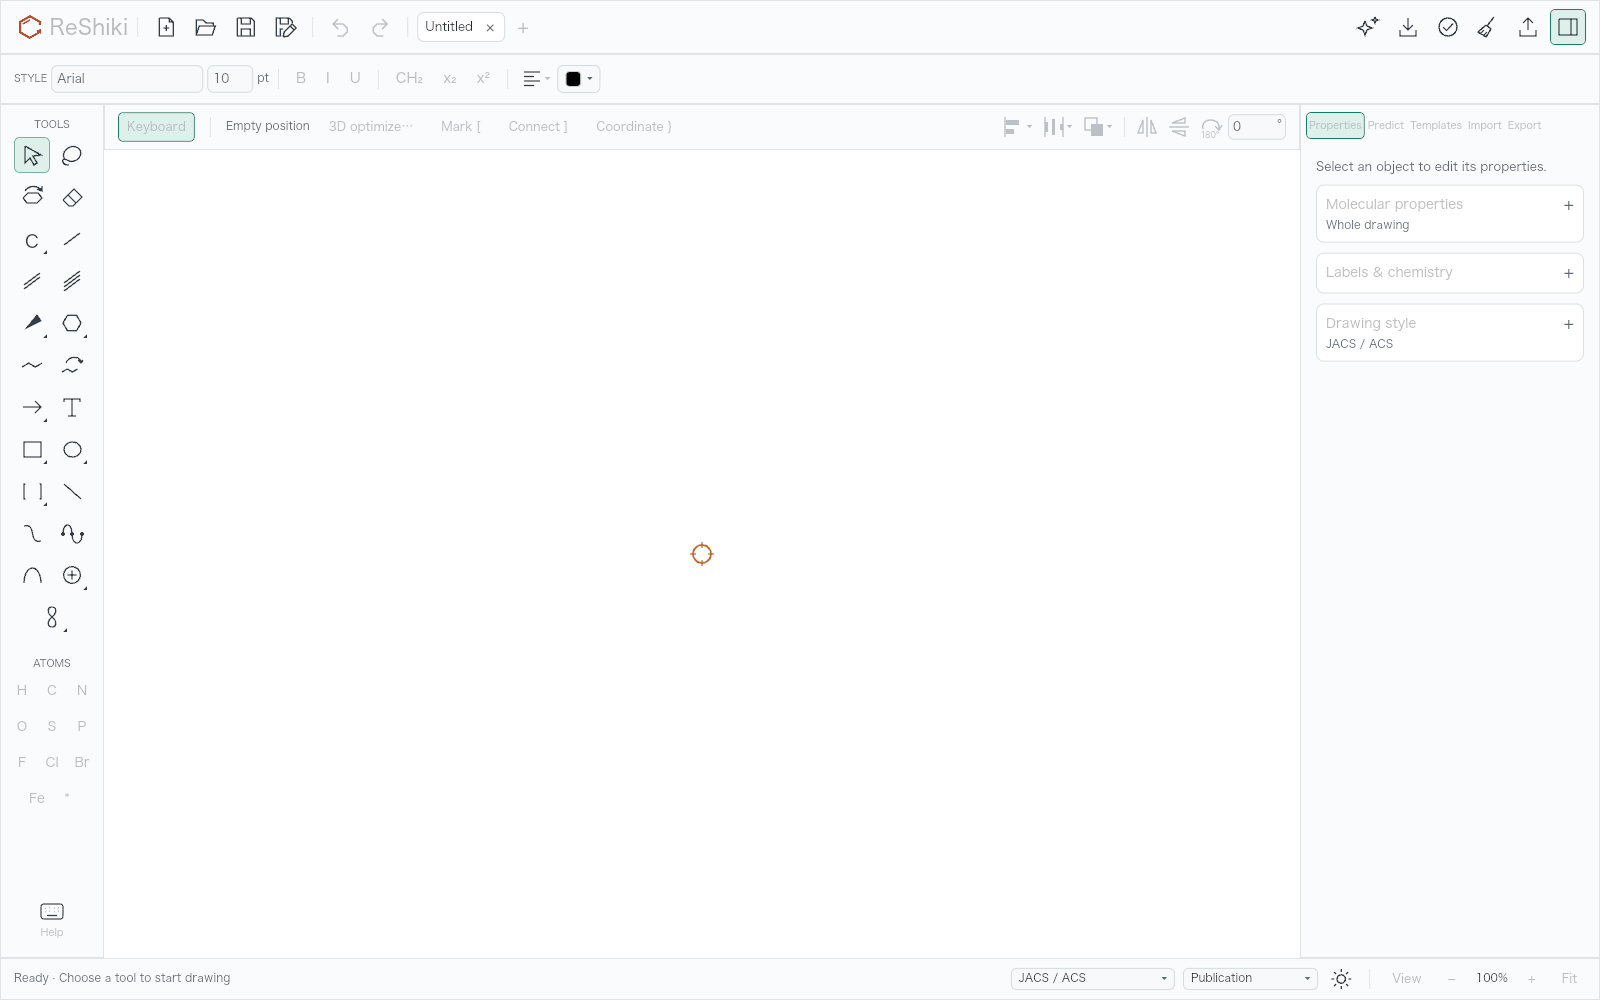
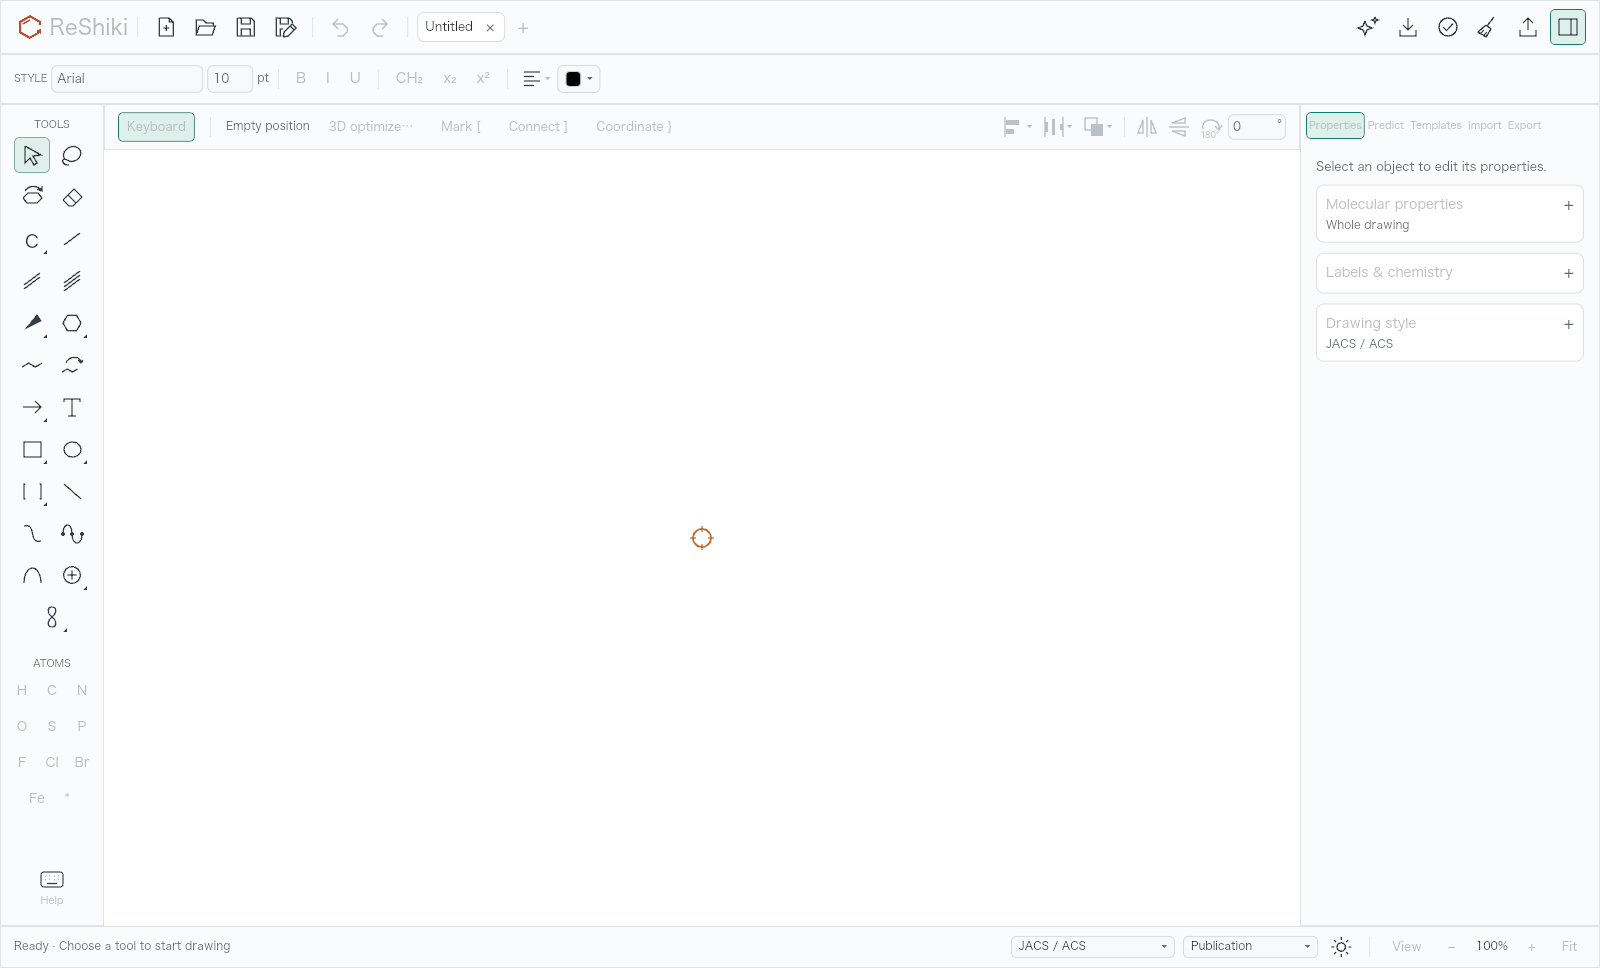
Match palette evidence to native window client height

diff --git a/src/app/drawing_polish_qa.rs b/src/app/drawing_polish_qa.rs
@@ -234,9 +234,11 @@ fn drawing() -> App {
 }
 
 #[tokio::test]
-#[ignore = "Real renderer palette geometry, native actions and matched1600/default captures"]
+#[ignore = "Real renderer palette geometry, native actions and matched 1600/default captures"]
 async fn drawing_polish_renderer_palette() {
-    for size in [Size::new(1600., 1000.), Size::new(1280., 820.)] {
+    // A 1000 pt outer macOS window has a 32 pt native title bar. The
+    // default 1280 × 820 setting names the client size in main.rs.
+    for size in [Size::new(1600., 968.), Size::new(1280., 820.)] {
         let (mut app, _) = App::new();
         app.recovered.clear();
         app.appearance.mode = crate::appearance::Mode::Light;
@@ -261,7 +263,7 @@ async fn drawing_polish_renderer_palette() {
         assert!(h.bounds.x < c.bounds.x);
         assert_eq!(h.bounds.y, c.bounds.y);
         let star = elements.iter().find(|n| n.id == "element-*").unwrap();
-        if size.height == 1000. && !baseline() {
+        if size.width == 1600. && !baseline() {
             assert_eq!(
                 star.visible_bounds,
                 Some(star.bounds),
@@ -276,11 +278,18 @@ async fn drawing_polish_renderer_palette() {
                 );
             }
         }
+        if size.width == 1600. && baseline() {
+            assert_ne!(
+                star.visible_bounds,
+                Some(star.bounds),
+                "The retained baseline must reproduce the clipped last row"
+            );
+        }
         ui.capture(
             &app,
             Some(&directory().join(format!("palette-{}.png", size.width))),
         );
-        if !baseline() && size.height == 1000. {
+        if !baseline() && size.width == 1600. {
             for symbol in ["H", "C", "N", "O", "S", "P", "F", "Cl", "Br", "Fe", "*"] {
                 ui.activate(&mut app, &format!("element-{symbol}"));
                 assert_eq!(app.element, symbol);
